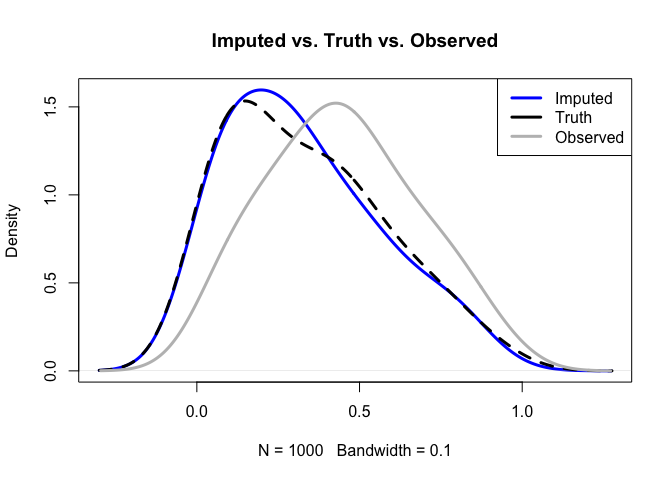
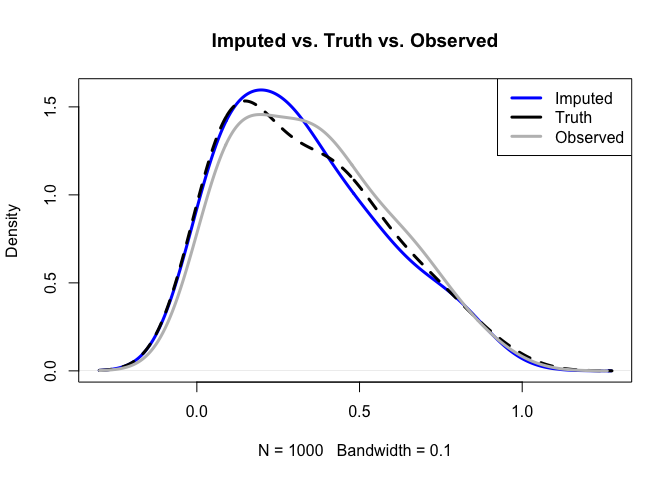
README edits

diff --git a/README.md b/README.md
@@ -60,7 +60,7 @@ $\boldsymbol Y_{ij}$ for $R_{ij}>0$.
   print("Missingness in Each Y_j:")
 #> [1] "Missingness in Each Y_j:"
   print(colMeans(R))
-#> [1] 0.491 0.511 0.489 0.491 0.522
+#> [1] 0.492 0.504 0.503 0.503 0.492
 
   # Now we'll create the study variables. Here we use gamma, t, and beta marginals 
   
@@ -97,27 +97,27 @@ $\boldsymbol Y_{ij}$ for $R_{ij}>0$.
       print("Summary of (Y^obs, R)")
 #> [1] "Summary of (Y^obs, R)"
       print(summary(Y_obs))
-#>       Y_j              Y_j               Y_j              Y_j        
-#>  Min.   :0.0012   Min.   :-0.0091   Min.   :0.0043   Min.   :0.0018  
-#>  1st Qu.:0.2756   1st Qu.: 1.6710   1st Qu.:0.2709   1st Qu.:0.3354  
-#>  Median :0.7006   Median : 2.4269   Median :0.4344   Median :0.7875  
-#>  Mean   :1.0143   Mean   : 2.7997   Mean   :0.4463   Mean   :1.0782  
-#>  3rd Qu.:1.4827   3rd Qu.: 3.4409   3rd Qu.:0.6058   3rd Qu.:1.5877  
-#>  Max.   :5.7798   Max.   :12.8502   Max.   :0.9719   Max.   :6.8695  
-#>  NA's   :491      NA's   :511       NA's   :489      NA's   :491     
+#>       Y_j              Y_j              Y_j              Y_j        
+#>  Min.   :0.0021   Min.   :-1.219   Min.   :0.0010   Min.   :0.0013  
+#>  1st Qu.:0.2199   1st Qu.: 1.158   1st Qu.:0.1503   1st Qu.:0.2453  
+#>  Median :0.5265   Median : 1.772   Median :0.3310   Median :0.6158  
+#>  Mean   :0.8295   Mean   : 2.004   Mean   :0.3550   Mean   :0.8586  
+#>  3rd Qu.:1.1520   3rd Qu.: 2.611   3rd Qu.:0.5165   3rd Qu.:1.1609  
+#>  Max.   :6.1069   Max.   :12.746   Max.   :0.9614   Max.   :6.5189  
+#>  NA's   :492      NA's   :504      NA's   :503      NA's   :503     
 #>       Y_j                V6              V7              V8       
-#>  Min.   :-0.4901   Min.   :0.000   Min.   :0.000   Min.   :0.000  
-#>  1st Qu.: 1.2925   1st Qu.:0.000   1st Qu.:0.000   1st Qu.:0.000  
-#>  Median : 1.9917   Median :0.000   Median :1.000   Median :0.000  
-#>  Mean   : 2.2578   Mean   :0.491   Mean   :0.511   Mean   :0.489  
-#>  3rd Qu.: 2.8812   3rd Qu.:1.000   3rd Qu.:1.000   3rd Qu.:1.000  
-#>  Max.   :10.5146   Max.   :1.000   Max.   :1.000   Max.   :1.000  
-#>  NA's   :522                                                      
+#>  Min.   :-0.4967   Min.   :0.000   Min.   :0.000   Min.   :0.000  
+#>  1st Qu.: 1.5075   1st Qu.:0.000   1st Qu.:0.000   1st Qu.:0.000  
+#>  Median : 2.2925   Median :0.000   Median :1.000   Median :1.000  
+#>  Mean   : 2.5336   Mean   :0.492   Mean   :0.504   Mean   :0.503  
+#>  3rd Qu.: 3.2222   3rd Qu.:1.000   3rd Qu.:1.000   3rd Qu.:1.000  
+#>  Max.   :10.8266   Max.   :1.000   Max.   :1.000   Max.   :1.000  
+#>  NA's   :492                                                      
 #>        V9             V10       
 #>  Min.   :0.000   Min.   :0.000  
 #>  1st Qu.:0.000   1st Qu.:0.000  
-#>  Median :0.000   Median :1.000  
-#>  Mean   :0.491   Mean   :0.522  
+#>  Median :1.000   Median :0.000  
+#>  Mean   :0.503   Mean   :0.492  
 #>  3rd Qu.:1.000   3rd Qu.:1.000  
 #>  Max.   :1.000   Max.   :1.000  
 #> 
@@ -136,7 +136,7 @@ information specified by the user:
   this example we have $\texttt{ncolR} = 5$
 - **aux_quantiles**: auxiliary quantiles assumed known for each study
   variable. This is a list of length $\texttt{ncolY}$, where the
-  aux_quantiles\[\[j\]\]}
+  aux_quantiles\[\[j\]\]
   $= [0,\{\tau^{q}_{j}\}_{q=2}^{\ell_{j} - 1},...,1]$, i.e. there are
   $\ell_{j}+2$ auxiliary quantiles assumed known for each variable. Note
   that $\ell_{j}$, the number of auxiliary quantiles for each variable,
